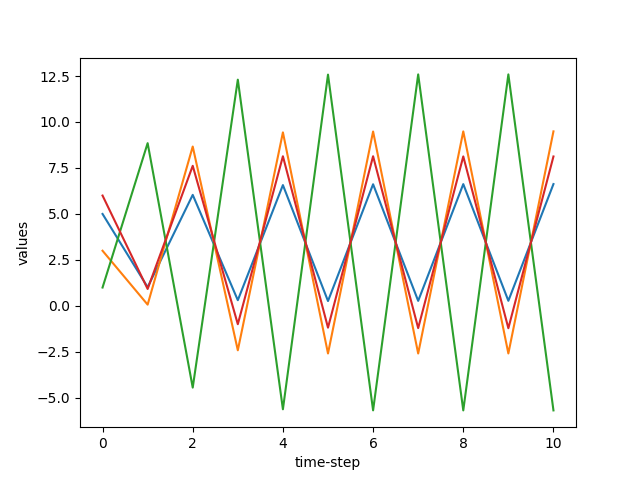
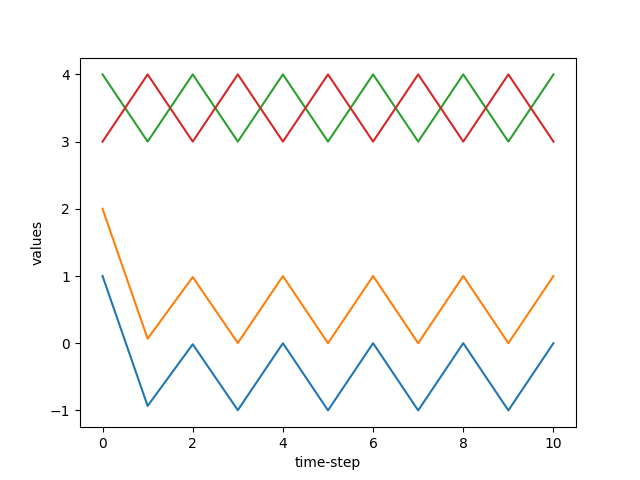
添加week2内容

diff --git a/week_2/code/FTC-CAI.py b/week_2/code/FTC-CAI.py
@@ -63,11 +63,41 @@ def ftc_cai(graph):
     plt.show()
 
 
+def ftc_cai_no_delay(graph):
+    adj_mat = nx.adjacency_matrix(graph)
+    matrix = np.array(adj_mat.todense(), dtype=np.float)
+    # add zero columns and rows to the first column and row.
+    matrix = np.row_stack(([0 for _ in range(matrix.shape[0])], matrix))
+    matrix = np.column_stack(([0 for _ in range(matrix.shape[0])], matrix))
+    print(matrix)
+    for time_step in range(10):
+        for i in range(1, len(graph.nodes()) + 1):
+            neighbors = graph.neighbors(i)
+            sum = 0.0
+            for j in neighbors:
+                sum += abs(matrix[i][j]) * (
+                    graph.node[i]['value'][time_step] - sign(matrix[i][j]) * graph.node[j]['value'][time_step])
+
+            final_result = graph.node[i]['value'][time_step] - sum
+            graph.node[i]['value'].append(final_result)
+
+    for i in graph.nodes():
+        print(graph.node[i]['value'])
+
+    plt.xlabel("time-step")
+    plt.ylabel("values")
+    x_axis = range(11)
+    for i in graph.nodes():
+        print(graph.node[i]['value'])
+        plt.scatter(x_axis, graph.node[i]['value'])
+    plt.savefig('./pngs/Finite-Time-Consensus-No-Delay.png')
+    plt.show()
+
+
 if __name__ == '__main__':
 
     graph = nx.Graph()
-
-    with open("./data/data-balanced.in") as f:
+    with open("./data/data-cn.in") as f:
         for line in f.readlines():
             tmp_input = line.strip('\n').split(' ')
             graph.add_node(int(tmp_input[0]), value=[])
@@ -80,4 +110,19 @@ if __name__ == '__main__':
                 else:
                     graph.edge[int(tmp_input[0])][int(tmp_input[num - 1])]['weight'] = float(tmp_input[num])
                     flag = True
-        ftc_cai(graph=graph)
+    ftc_cai(graph=graph)
+
+    with open("./data/data-cn.in") as f:
+        for line in f.readlines():
+            tmp_input = line.strip('\n').split(' ')
+            graph.add_node(int(tmp_input[0]), value=[])
+            graph.node[int(tmp_input[0])]['value'].append(float(tmp_input[1]))
+            flag = True
+            for num in range(2, len(tmp_input)):
+                if flag:
+                    graph.add_edge(int(tmp_input[0]), int(tmp_input[num]))
+                    flag = False
+                else:
+                    graph.edge[int(tmp_input[0])][int(tmp_input[num - 1])]['weight'] = float(tmp_input[num])
+                    flag = True
+    ftc_cai_no_delay(graph=graph)
